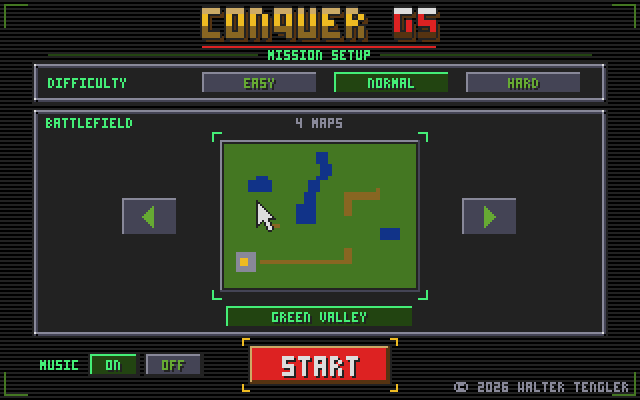
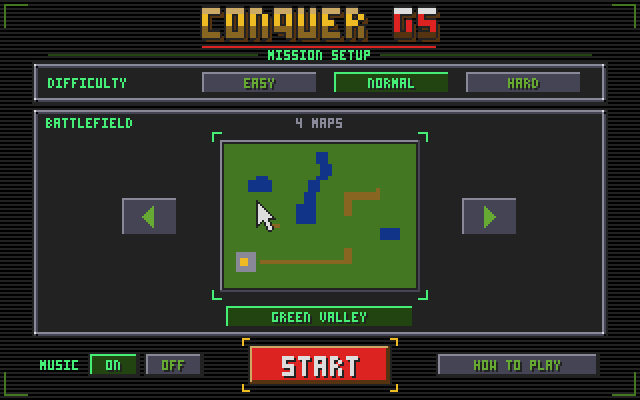
HOW TO PLAY: three instruction pages, and the copyright on the title
The mission setup screen gets a HOW TO PLAY button (where the copyright
was): three pages in its style - the mission, the controls, the units
and the enemy - with BACK and NEXT, Esc back to the setup. They come in
a file of their own, CONQUER.HELP, loaded into bank $05 at $A000 (no
room left in CONQUER.DATA's bank). The copyright now sits under CLICK
TO START on the title. New test: helptest.

Changed region(s): [[0.6562, 0.87, 1.0, 0.99]]

diff --git a/tools/makegfx.py b/tools/makegfx.py
@@ -2417,7 +2417,7 @@ def logo(img, y):
 def options_screen():
     """The screen and its click areas: (x0, y0, x1, y1, action, pressable)
     with action 0-2 a difficulty, 16 + i map i, 32 START, 48 music on, 49
-    music off."""
+    music off, 64 HOW TO PLAY."""
     img = blank(SCREEN_W, SCREEN_H, CLEAR)
     for y in range(0, SCREEN_H, 2):             # scanlines
         rect(img, 0, y, SCREEN_W - 1, y, INK)
@@ -2473,11 +2473,115 @@ def options_screen():
     text2x(img, x0 + (x1 - x0 + 1 - (5 * 8 - 2)) // 2, y0 + 6, "START", LIGHT)
     hud_corners(img, x0 - 3, y0 - 3, x1 + 3, y1 + 3, GOLD, 4)
     areas.append((x0, y0, x1, y1, 32, 0))
-    note = "© 2026 WALTER TENGLER"
-    text(img, SCREEN_W - 6 - text_width(note), SCREEN_H - 9, note, STEEL, shadow=None)
+    x0, x1 = HELP_BTN                           # the instructions
+    opt_button(img, x0, by0, x1, by0 + OPT_BTN_H - 1, "HOW TO PLAY")
+    areas.append((x0, by0, x1, by0 + OPT_BTN_H - 1, 64, 0))
     for x0, y0, x1, y1, act, press in areas:
         assert x0 % 2 == 0 and x1 % 2 == 1
     return img, areas
+
+
+HELP_BTN = (218, 299)                   # HOW TO PLAY (x; at the bottom)
+NOTE = "© 2026 WALTER TENGLER"
+
+# the instructions: pages behind HOW TO PLAY, each a screen like the
+# mission setup's. Lines: (gold heading or key, light text) - a key and
+# its text side by side, or a heading alone, or text alone.
+def help_texts():
+    t, b, so, ro, h = (STATS[k] for k in ('tank', 'buggy', 'sold', 'rock', 'harv'))
+    return [
+        ("THE MISSION", [
+            ("GOAL", ""),
+            ("", "DESTROY EVERY ENEMY UNIT AND BUILDING TO WIN."),
+            ("", "IF YOUR COMMAND CENTER FALLS THE MISSION IS LOST."),
+            ("BUILDING UP", ""),
+            ("", "A POWER PLANT - A BARRACKS FOR SOLDIERS - THEN A WAR"),
+            ("", "FACTORY FOR TANKS AND BUGGIES. HARVESTERS COME FROM"),
+            ("", "THE COMMAND CENTER."),
+            ("MONEY", ""),
+            ("", "ORE: %d CREDITS A SCOOP - %d A LOAD. MINED-OUT ORE GROWS" % (SCOOP, CAPACITY)),
+            ("", "BACK. A REFINERY NEAR THE ORE SHORTENS THE TRIPS."),
+            ("POWER", ""),
+            ("", "%d FROM THE COMMAND CENTER - 100 PER POWER PLANT. TOO" % HQ_POWER),
+            ("", "LITTLE: EVERYTHING BUILDS AT HALF SPEED - NO RADAR."),
+            ("", "THE RADAR NEEDS A RADAR CENTER. THE FOG HIDES THE ENEMY."),
+        ]),
+        ("CONTROLS", [
+            ("CLICK", "SELECT A UNIT"),
+            ("DRAG", "SELECT SEVERAL WITH A BOX"),
+            ("CLICK GROUND", "MOVE THERE"),
+            ("CLICK ENEMY", "ATTACK IT"),
+            ("SPACE", "UNSELECT - STOP PLACING"),
+            ("ARROWS", "SCROLL - OR HOLD THE MOUSE AT AN EDGE"),
+            ("RADAR", "CLICK IT TO JUMP THERE"),
+            ("ICON", "BUILD - WHEN READY CLICK AGAIN TO PLACE"),
+            ("ICON AGAIN", "QUEUE UP TO %d UNITS OF A KIND" % QUEUE_MAX),
+            ("OPTION-CLICK", "CANCEL A BUILD - MONEY BACK"),
+            ("BARRACKS", "THEN GROUND: ITS RALLY POINT"),
+            ("SELL / REPAIR", "THEN ONE OF YOUR STRUCTURES"),
+            ("REST THE MOUSE", "SEE WHAT IT IS AND WHAT IT COSTS"),
+            ("M  /  ESC", "MUSIC  /  PAUSE"),
+        ]),
+        ("UNITS AND THE ENEMY", [
+            ("UNIT", "COST  ARMOR  RANGE  GOOD AGAINST"),
+            ("TANK", "%4d   %4d     %d     EVERYTHING" % (t[5], t[0], t[1])),
+            ("BUGGY", "%4d   %4d     %d     SOLDIERS - FAST" % (b[5], b[0], b[1])),
+            ("SOLDIER", "%4d   %4d     %d     CHEAP" % (so[5], so[0], so[1])),
+            ("ROCKET SOLDIER", "%4d   %4d     %d     TANKS AND BUILDINGS" % (ro[5], ro[0], ro[1])),
+            ("HARVESTER", "%4d   %4d     -     MINES ORE" % (h[5], h[0])),
+            ("THE ENEMY", ""),
+            ("", "MINES WITH ITS OWN HARVESTER: DESTROY IT TO STOP ITS"),
+            ("", "MONEY. IT REBUILDS WHAT YOU DESTROY ONCE IT CAN PAY"),
+            ("", "AND ATTACKS IN WAVES THAT GROW BIGGER."),
+            ("TIPS", ""),
+            ("", "TWO TURRETS BY THE COMMAND CENTER HOLD THE EARLY WAVES."),
+            ("", "HUNT ITS HARVESTER. MATCH YOUR WEAPONS TO THE TARGETS."),
+        ]),
+    ]
+
+
+HELP_KEY_X, HELP_TEXT_X = 26, 96
+HELP_ADDR = 0xA000
+HELP_BTN_Y = 180                        # the pages' bottom row (buttons)
+HELP_Y0, HELP_DY = 46, 9
+
+
+def help_pages():
+    """The instruction pages (screens)."""
+    texts = help_texts()
+    out = []
+    for n, (title, lines) in enumerate(texts):
+        img = blank(SCREEN_W, SCREEN_H, CLEAR)
+        for y in range(0, SCREEN_H, 2):         # scanlines
+            rect(img, 0, y, SCREEN_W - 1, y, INK)
+        hud_corners(img, 2, 2, SCREEN_W - 3, SCREEN_H - 3, GRASS, 12)
+        head = "HOW TO PLAY"                    # (no logo: room on the disk)
+        hx = (SCREEN_W - (len(head) * 8 - 2)) // 2
+        text2x(img, hx, 8, head, GOLD)
+        rect(img, hx - 4, 22, hx + len(head) * 8 + 1, 22, RED)
+        metal_panel(img, 16, 31, 303, 172, "%d/%d  %s" % (n + 1, len(texts), title))
+        y = HELP_Y0
+        for key, what in lines:
+            if key and not what:                # a heading
+                text(img, HELP_KEY_X, y, key, GOLD, shadow=None)
+            elif not key:                       # text on its own
+                assert HELP_KEY_X + 8 + text_width(what) < 296, what
+                text(img, HELP_KEY_X + 8, y, what, LIGHT, shadow=None)
+            else:
+                assert HELP_KEY_X + text_width(key) < HELP_TEXT_X - 4, key
+                assert HELP_TEXT_X + text_width(what) < 296, what
+                text(img, HELP_KEY_X, y, key, GOLD, shadow=None)
+                text(img, HELP_TEXT_X, y, what, LIGHT, shadow=None)
+            y += HELP_DY
+        assert y <= 172
+        by0 = HELP_BTN_Y                        # BACK, NEXT or DONE
+        opt_button(img, 16, by0, 89, by0 + OPT_BTN_H - 1, "BACK" if n else "SETUP")
+        last = n == len(texts) - 1
+        opt_button(img, 230, by0, 303, by0 + OPT_BTN_H - 1, "DONE" if last else "NEXT")
+        hint = "ESC: BACK TO THE SETUP"
+        text(img, (SCREEN_W - text_width(hint)) // 2, by0 + 4, hint, STEEL, shadow=None)
+        out.append(img)
+    return out
 
 
 def opt_markers():
@@ -2709,7 +2813,8 @@ PROMPT_UP = 2                   # rows above the bottom palette band
 
 
 def title_prompt(outdir):
-    """The CLICK TO START line drawn on the title picture (assets/title.shr,
+    """The CLICK TO START line (and the copyright under it) drawn on the
+    title picture (assets/title.shr,
     a Super Hi-Res screen image): centered near the bottom, PROMPT_UP rows
     above the bottom palette band's top, in each row's palette's brightest
     color with a dark outline: packed pixels with 0 for see-through, and
@@ -2733,11 +2838,12 @@ def title_prompt(outdir):
         y0 -= 1
     w = text_width(PROMPT) * 2 + 2                  # (and a dark outline
     w += w & 1                                      #  all around, to stand
-    h = 12                                          #  out on any ground)
-    y = y0 - PROMPT_UP
-    assert y + h <= 200
+    h = 12 + 10                                     #  out on any ground;
+    y = y0 - PROMPT_UP - 10                         #  the copyright under it)
+    assert y + h <= 200 and text_width(NOTE) + 2 <= w
     letters = blank(w, h)
     text2x(letters, 1, 1, PROMPT, 1, shadow=None)
+    text(letters, (w - text_width(NOTE)) // 2, 13, NOTE, 1, shadow=None)
     img = blank(w, h)
     for yy in range(h):
         bright, dark = colors(y + yy)
@@ -2852,6 +2958,15 @@ def main(outdir):
     # the options screen
     opts, areas = options_screen()
     put_rle('options.rle', pack(opts))
+    # CONQUER.HELP: the instruction pages, packed, loaded at start into
+    # bank HELPBANK at HELPADDR (above the lose banner's layer)
+    helpdata, helpoffs = bytearray(), []
+    for page in help_pages():
+        helpoffs.append(HELP_ADDR + len(helpdata))
+        helpdata += rle(pack(page))
+    assert HELP_ADDR + len(helpdata) <= 0x10000
+    put('conquer.help', bytes(helpdata))
+    put('helptab.bin', b''.join(struct.pack('<H', a) for a in helpoffs))
     tab = bytearray()
     for x0, y0, x1, y1, act, press in areas:
         tab += struct.pack('<8H', x0, y0, x1, y1, act, y0 * 160 + x0 // 2,
@@ -3120,6 +3235,10 @@ def main(outdir):
     offsets['DATA_PROMPT'] = len(data)
     data += prompt
     offsets.update(pinfo)
+    offsets['NHELP'] = len(help_texts())
+    offsets['HELPADDR'] = HELP_ADDR
+    offsets['HELPBTNY'] = HELP_BTN_Y
+    offsets['HELPSIZE'] = os.path.getsize(os.path.join(outdir, 'conquer.help'))
     assert len(data) <= 0x10000                 # (a bank of its own, see main.s)
     assert (len(SPRITE_ORDER) + len(tiles)) * 128 <= 0x8000   # (the sprite bank)
     put('conquer.data', bytes(data))

diff --git a/docs/TECHNICAL.md b/docs/TECHNICAL.md
@@ -22,7 +22,8 @@ banks 0 and 1 and never returns to ProDOS.
 3. CONQUER.DATA (the packed graphics, maps, options screen and name tags)
    loads into bank $08.
 4. CONQUER.SOUND (an image of the sound chip's RAM) streams into the sound
-   chip.
+   chip, and CONQUER.HELP (the packed instruction pages behind HOW TO
+   PLAY) loads into bank $05 at $A000, above the lose banner's layer.
 5. The game unpacks the graphics, compiles the sprites into code, then shows
    the title with CLICK TO START and starts the title tune; after a click,
    the options screen; then the chosen map is unpacked and the game starts.
@@ -43,7 +44,7 @@ The game needs a IIgs with at least 1 MB (banks up to $09).
 | $01 | the work buffer (what the screen will show), the fog table ($A000), its queue ($A600), the sprite code entries ($AE00) |
 | $02 | the background of the top bar and sidebar |
 | $03 | the top bar and sidebar layer, with a copy of the radar's terrain at +$8000 |
-| $04, $05 | the two end-of-game banners |
+| $04, $05 | the two end-of-game banners; at $A000 the pause panel ($04) and the instruction pages ($05) |
 | $06 | the compiled sprites, and the screen copier at $F000 |
 | $07 | the sprite and tile pixels, then the name tags and the radar's "offline" picture |
 | $08 | CONQUER.DATA as loaded (up to 64K) |
@@ -285,6 +286,17 @@ command center falls. The end-of-game panel (taller than the pause
 panel, 6 cell rows) shows what the game counted: our units built and
 lost, enemy units and buildings destroyed, credits from ore and the time
 played (`drawstats` writes them into the panel's layer when it ends).
+
+## Instructions
+
+HOW TO PLAY on the mission setup screen shows three pages (`help_texts()`
+in `tools/makegfx.py`, drawn in the setup screen's style; their numbers
+come from the game's own tables): the mission, the controls, the units
+and the enemy. `help` unpacks each straight onto the screen; a click on
+the bottom row's left half goes back, on its right half on, Esc (or going
+past either end) back to the setup screen, which starts afresh. They are
+in a file of their own, CONQUER.HELP: CONQUER.DATA's bank has no room
+left for them. The copyright sits under CLICK TO START on the title.
 
 ## Pausing
 

diff --git a/docs/BUILDING.md b/docs/BUILDING.md
@@ -46,12 +46,14 @@ tests. To just play, download the disk from the
    $9000; `build.sh` checks), and `tools/equates.py` writes every equate and
    the program's labels to `build/equates.lua` for the test scripts.
 5. Cadius makes `build/conquer.po`, an 800K ProDOS disk with ProDOS 2.4.3,
-   CONQUER.SYSTEM, CONQUER.DATA, CONQUER.SOUND and CONQUER.TITLE (the title
-   picture, from `assets/title.shr`).
+   CONQUER.SYSTEM, CONQUER.DATA, CONQUER.SOUND, CONQUER.TITLE (the title
+   picture, from `assets/title.shr`) and CONQUER.HELP (the instruction
+   pages).
 
 The game reads its files from its own folder, or else from the top folder
 of the disk it started from. Without CONQUER.TITLE the options screen comes
-straight away, without CONQUER.SOUND the game is silent; if CONQUER.DATA is
+straight away, without CONQUER.SOUND the game is silent, without
+CONQUER.HELP the HOW TO PLAY button does nothing; if CONQUER.DATA is
 missing or damaged it says so on the text screen and stops.
 
 `run.sh` passes extra arguments to MAME, and turns the Mac's mouse off when
@@ -136,6 +138,9 @@ Most print their findings and end with `problems: 0` when all is well.
   barracks, the war factory and the command center. Three soldiers
   queued, one taken back with an Option-click (the test sets `optheld`),
   two come out; a structure stopped with an Option-click, money back.
+- `tools/helptest.lua` (200 s): HOW TO PLAY from the mission setup, the
+  pages with NEXT and BACK, DONE and Esc back to the setup, then START;
+  dumps the pages (`build/mame/h1_page*.bin`).
 - `tools/movefiretest.lua` (60 s): a tank sent along the road past an enemy
   tank shoots it on the way without stopping, and gets where it was sent.
 - `tools/rallytest.lua` (60 s): rally points for the barracks and the war

diff --git a/README.md b/README.md
@@ -58,8 +58,8 @@ and a mouse, or an emulator.
 - **On a real IIgs:** write the disk image to a 3.5" disk, or use it with a
   FloppyEmu, BlueSCSI or similar device, and boot from it. The game also
   finds its files in a folder on a hard disk: copy CONQUER.SYSTEM,
-  CONQUER.DATA, CONQUER.SOUND and CONQUER.TITLE into one folder and start
-  CONQUER.SYSTEM.
+  CONQUER.DATA, CONQUER.SOUND, CONQUER.TITLE and CONQUER.HELP into one
+  folder and start CONQUER.SYSTEM.
 - **In MAME** (on a Mac, easiest through [Ample](https://github.com/ksherlock/ample)):
   choose the Apple IIgs (ROM 3 or ROM 01) with 1 MB of memory or more (2 MB
   is the default), put conquer.po in the first 3.5" drive and start it.
@@ -87,6 +87,9 @@ Click (or press a key) on the title. On the mission setup screen choose:
 - **Music:** on or off.
 
 Then click START or press RETURN. Your choices are kept for the next game.
+HOW TO PLAY opens three pages of instructions: the mission, the controls,
+the units and the enemy (NEXT and BACK to leaf through, Esc back to the
+setup).
 
 ### Controls
 
